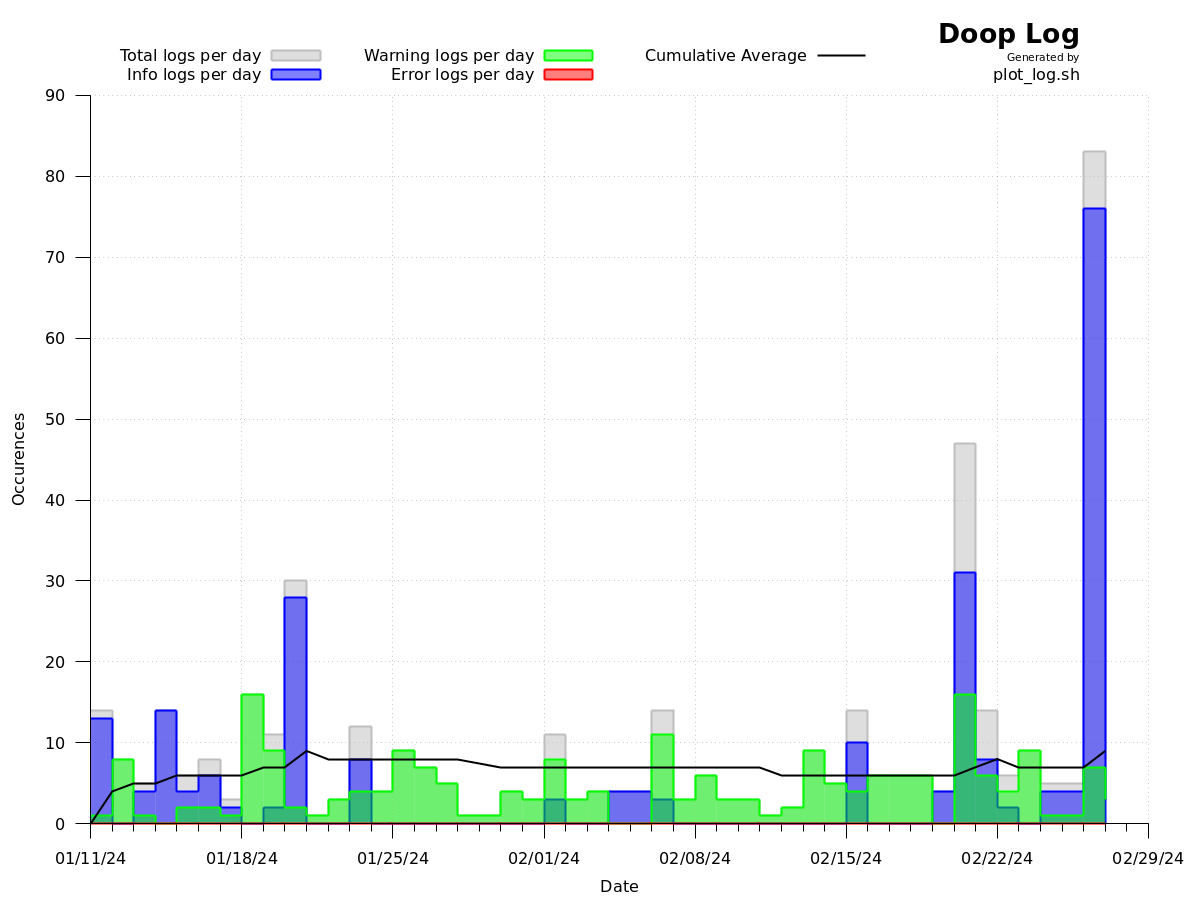
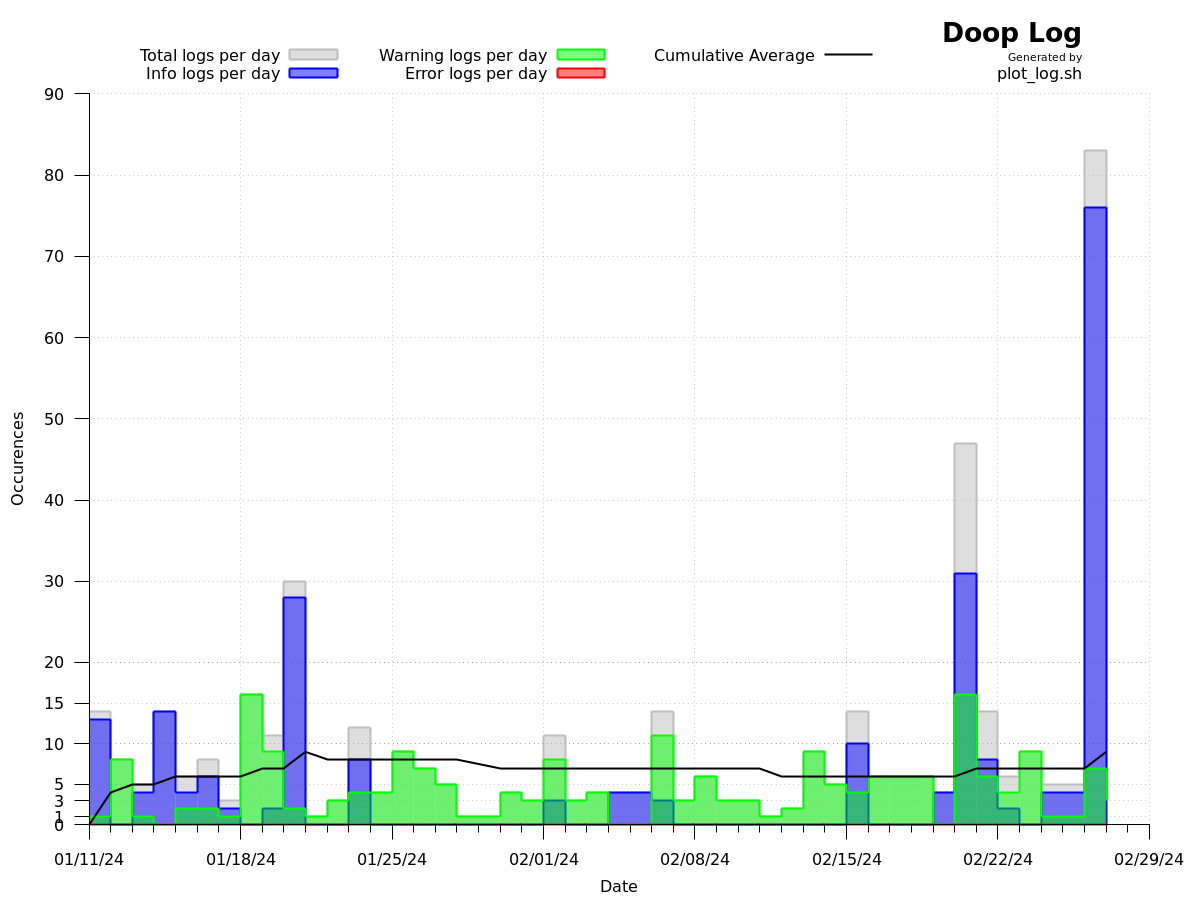
updated demo

diff --git a/README.md b/README.md
@@ -18,7 +18,7 @@ It may work on other versions, but this is entirely untested.
 $ ./csv.sh
 $ gnuplot -p ./plot.gp
 ```
-Expected output (as of [`1209099`](https://github.com/RemasteredArch/doop_plot/tree/12090998dcdd49234589bc546055cf3bbdee733b)):
+Expected output (as of [`a2f9b15`](https://github.com/RemasteredArch/doop_plot/tree/a2f9b152716c1020dd9c9e11326a4b136debab3c)):
 ![gnuplot output](./demo/output.png)
 
 ## Disclaimer
